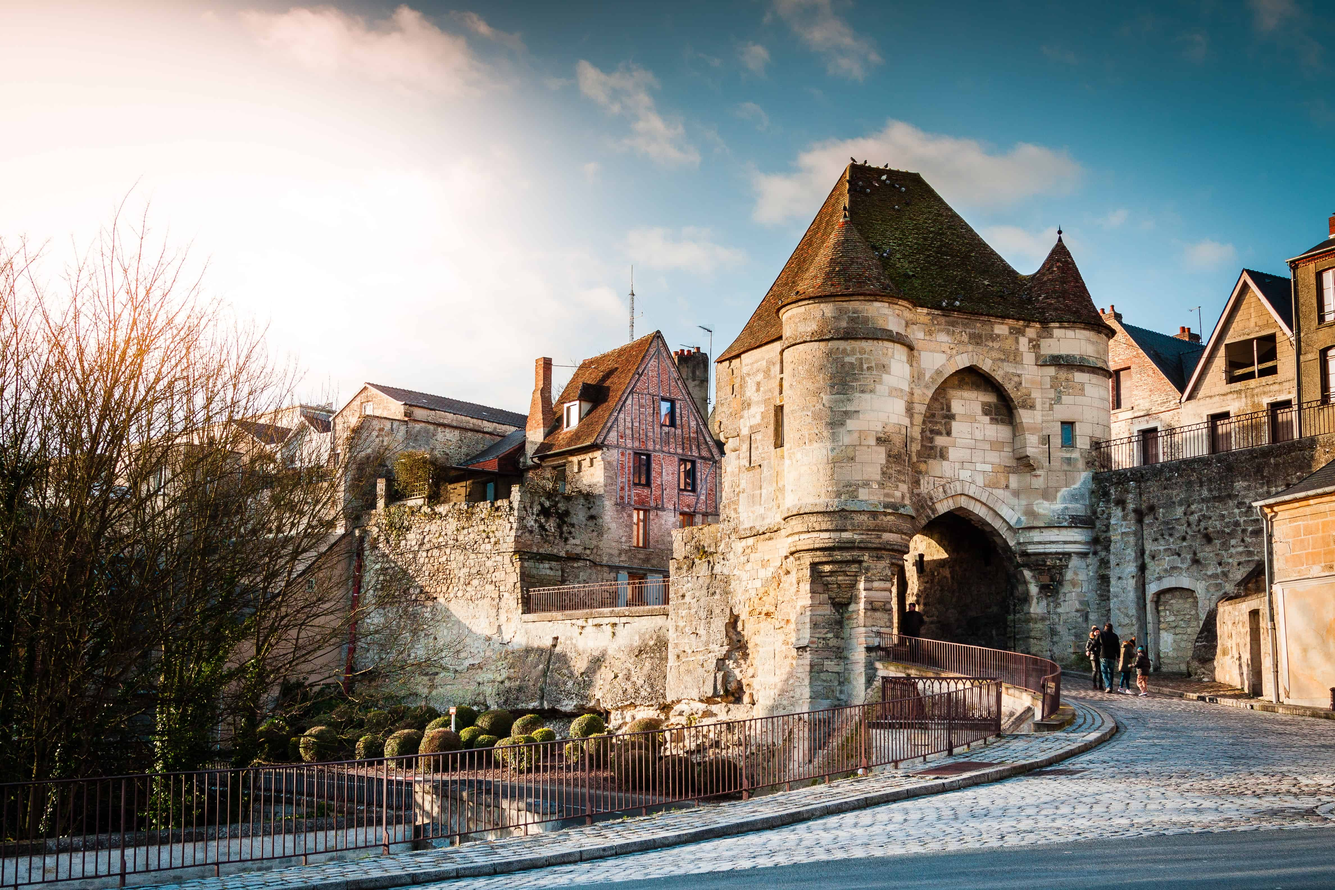
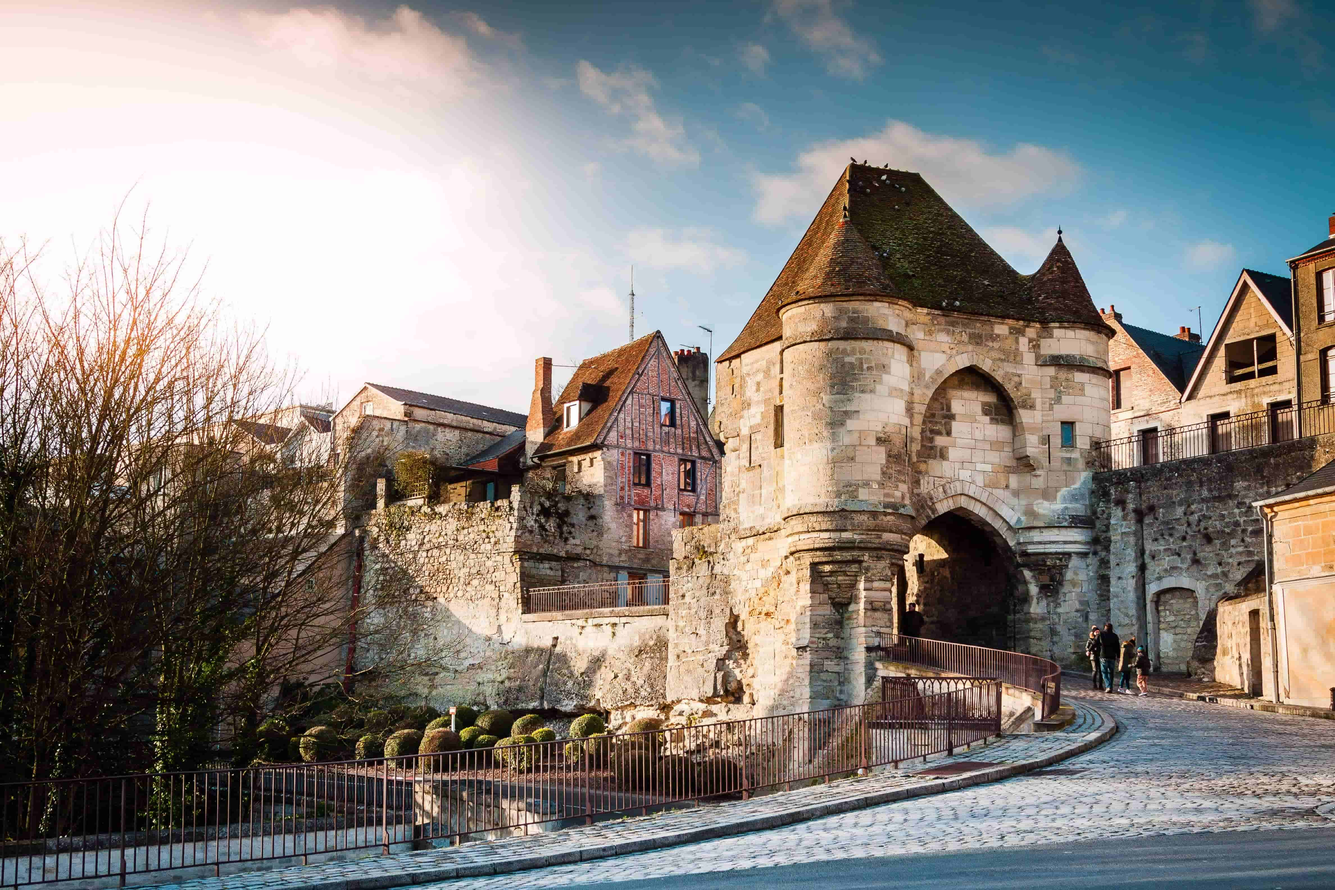
optimize images. complete footer.

diff --git a/styles.css b/styles.css
@@ -1,17 +1,26 @@
 body {
     font-family: calibri;
+    background-color: rgb(248, 248, 248);
+    padding: 0;
+    margin: 0;
 }
 
 header {
     display: flex;
     justify-content: space-between;
-    margin: 0 10% 0 10%;
-    border-bottom: 1px solid black;
+    /* margin: 0 10% 0 10%; */
+    /* border-bottom: 1px solid black; */
+    background-color: white;
+}
+
+#logo {
+    margin-left: 100px;
 }
 
 .nav-container {
     display: flex;
     list-style-type: none;
+    margin-right: 100px;
 }
 
 li {
@@ -32,13 +41,19 @@ li {
     align-items: center; */
     height: 100vh;
     /* background-color: lightblue; */
+    /* clip-path: polygon(100% 0, 100% 80%, 33% 100%, 0 81%, 0 44%, 0% 0%); */
 }
+
+/* .test-container {
+    margin: 0 35% 0 35%;
+} */
 
 #about-us-container {
     /* display: flex;
     justify-content: space-between; */
     margin: 100px 10% 0 10%;
-    height: 100%;
+    /* height: 100%; */
+    
 }
 
 #about-us-top {
@@ -48,6 +63,10 @@ li {
 
 #about-img {
     margin-right: 15px;
+    box-shadow: -31px 38px 0px 3px rgba(225,225,225,0.75);
+-webkit-box-shadow: -31px 38px 0px 3px rgba(225,225,225,0.75);
+-moz-box-shadow: -31px 38px 0px 3px rgba(225,225,225,0.75);
+    max-width: 400px;
 }
 
 #about-us-text {
@@ -84,7 +103,13 @@ li {
 }
 
 #attractions {
+    margin-top: 100px;
+    padding: 50px 0 50px 0;
+    /* height: 100vh; */
     text-align: center;
+    background-color: white;
+    /* background-color: green; */
+    /* clip-path: polygon(100% 0, 100% 92%, 33% 100%, 0 90%, 0 0, 64% 5%); */
 }
 
 #attraction-img-1 {
@@ -95,6 +120,8 @@ li {
     height: 300px;
     width: 300px;
     margin: 5px;
+    transition: .7s;
+
 }
 #attraction-img-1:hover {
     background-image: url("img/eiffel.jpg");
@@ -105,6 +132,7 @@ li {
     width: 300px;
     margin: 5px;
     box-shadow: 4px 4px 15px -5px;
+    /* transition: .5s; */
 }
 
 #attraction-img-2 {
@@ -115,6 +143,7 @@ li {
     height: 300px;
     width: 300px;
     margin: 5px;
+    transition: .7s;
 }
 #attraction-img-2:hover {
     background-image: url("img/coast.jpg");
@@ -135,6 +164,7 @@ li {
     height: 300px;
     width: 300px;
     margin: 5px;
+    transition: .7s;
 }
 #attraction-img-3:hover {
     background-image: url("img/brick-road.jpg");
@@ -155,6 +185,7 @@ li {
     height: 300px;
     width: 300px;
     margin: 5px;
+    transition: .7s;
 }
 #attraction-img-4:hover {
     background-image: url("img/bridge.jpg");
@@ -175,6 +206,7 @@ li {
     height: 300px;
     width: 300px;
     margin: 5px;
+    transition: .7s;
 }
 #attraction-img-5:hover {
     background-image: url("img/umbrellas.jpg");
@@ -195,6 +227,7 @@ li {
     height: 300px;
     width: 300px;
     margin: 5px;
+    transition: .7s;
 }
 #attraction-img-6:hover {
     background-image: url("img/night.jpg");
@@ -248,7 +281,7 @@ li {
 #contact-section {
     display: flex;
     justify-content: space-between;
-    margin: 0 10% 0 10%;
+    margin: 100px 10% 0 10%;
 }
 
 .text-input, textarea {
@@ -288,6 +321,27 @@ textarea {
     transition: .5s;
 }
 
+footer {
+    margin-top: 150px;
+    padding: 70px 0 70px 0;
+    background-color: black;
+    color: white;
+    display: flex;
+    /* justify-content: center; */
+    flex-direction: column;
+}
+
+#social-links   {
+    display: flex;
+    justify-content: center;
+    list-style-type: none;
+}
+
+#credit {
+    text-align: center;
+    /* margin: 0 auto; */
+}
+
 /* @media only screen and (max-width: 992px) {
     FOR IMAGES
 } */
@@ -298,9 +352,19 @@ textarea {
         /* display: flex;
         justify-content: center;
         flex-direction: column; */
-        margin: 0 10% 0 10%;
+        /* margin: 50px 10% 0 10%; */
         height: 100%;
     }
+    #about-us-top {
+        display: flex;
+        justify-content: center;
+    }
+    #about-img {
+       margin: 0 auto;
+    }
+    /* #about-us-top img {
+        margin: 0 auto;
+    } */
     #hamburger {
         display: flex;
     }
@@ -312,6 +376,12 @@ textarea {
         flex-direction: column;
         justify-content: center;
     }
+    /* #about-img {
+        margin-right: 15px;
+        box-shadow: -31px 38px 0px 3px rgba(225,225,225,0.75);
+    -webkit-box-shadow: -31px 38px 0px 3px rgba(225,225,225,0.75);
+    -moz-box-shadow: -31px 38px 0px 3px rgba(225,225,225,0.75);
+    } */
     #about-us-text {
         width: 100%;
         line-height: 1.7em;
@@ -480,6 +550,9 @@ textarea {
         display: flex;
         flex-direction: column;
     }
+    .post-body, .post-footer {
+        margin: 0 auto;
+    }
     
   }
 
@@ -597,6 +670,10 @@ textarea {
         width: 100px;
         margin: 5px;
         box-shadow: 4px 4px 15px -5px;
+    }
+
+    footer {
+        font-size: .75em;
     }
   }
 

diff --git a/index.html b/index.html
@@ -12,7 +12,7 @@
     <!-- NAV -->
     <header>
         <div>
-            <h3>Logo</h3>
+            <h3 id="logo">Logo</h3>
         </div>
         <nav>
             <ul class="nav-container">
@@ -30,6 +30,8 @@
     <div id="hero">
         
     </div>
+    
+
     <!-- ABOUT US -->
     <div id="about-us-container">
         <!-- ABOUT US TOP -->
@@ -128,7 +130,7 @@
                     Quick six blind smart out burst. Perfectly on furniture dejection determine my depending an to. Add short water court fat.
                 </div>
                 <div class="post-footer">
-    
+                    <p><strong>Author Name</strong> - 22 October 2018</p>
                 </div>
             </div>
     
@@ -143,7 +145,7 @@
                     Quick six blind smart out burst. Perfectly on furniture dejection determine my depending an to. Add short water court fat.
                 </div>
                 <div class="post-footer">
-    
+                    <p><strong>Author Name</strong> - 22 October 2018</p>
                 </div>
             </div>
     
@@ -195,6 +197,24 @@
             </div>
         </div>
     </div>
+
+    <!-- FOOTER -->
+    <footer>
+        <div id="social-container">
+            <ul id="social-links">
+                <li>facebook</li>
+                <li>twitter</li>
+                <li>instagram</li>
+                <li>google plus</li>
+                <li>behance</li>
+                <li>dribbble</li>
+            </ul>
+        </div>
+        <div id="credit">
+            <p>Built by Toye Ogundepo<br/>Inspired by DEV Themes Studio</p>
+        </div>
+    </footer>
+
 
 </body>
 </html>
